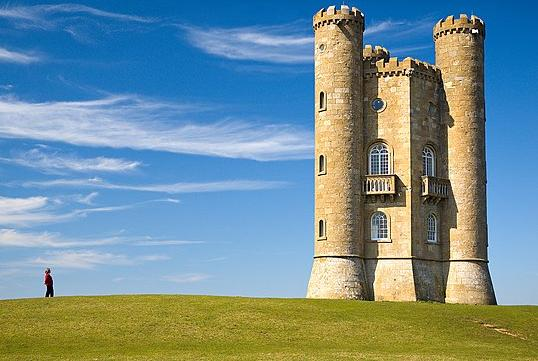
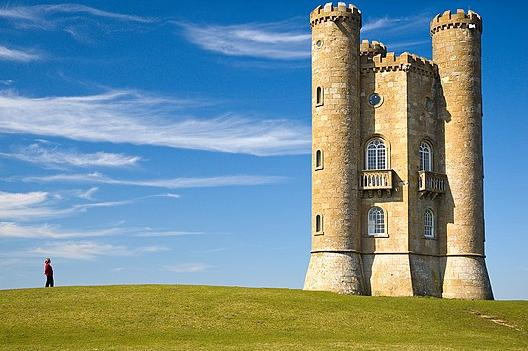
implemented the jframe

diff --git a/src/main/java/ImageFrame.java b/src/main/java/ImageFrame.java
@@ -1,0 +1,105 @@
+import javax.imageio.ImageIO;
+import javax.swing.*;
+import java.awt.*;
+import java.awt.image.BufferedImage;
+import java.io.File;
+import java.io.IOException;
+
+public class ImageFrame extends JFrame {
+
+    private final JLabel imageLabel;
+    private ImageObject imageObject;
+    private File currentFile;
+
+    public ImageFrame() {
+
+        setLayout(new BorderLayout());
+
+        // This is where the image will be stored.
+        imageLabel = new JLabel();
+
+        JPanel northPanel = new JPanel();
+        northPanel.setLayout(new FlowLayout());
+        JButton resizeButton = new JButton("Resize");
+        resizeButton.addActionListener(event -> {
+            // This will set the image based on the current size of the label
+            setSeamImageSize(imageLabel.getWidth(), imageLabel.getHeight());
+        });
+        northPanel.add(resizeButton);
+        JButton loadButton = new JButton("Load");
+        northPanel.add(loadButton);
+        loadButton.addActionListener(event -> {
+            chooseFile();
+        });
+        JButton resetButton = new JButton("Reset");
+        northPanel.add(resetButton);
+        resetButton.addActionListener(event -> {
+            try {
+                resetImage();
+            } catch (IOException e) {
+                throw new RuntimeException(e);
+            }
+        });
+
+        add(northPanel, BorderLayout.NORTH);
+        add(imageLabel, BorderLayout.CENTER);
+
+        BufferedImage image;
+        try {
+            image = ImageIO.read(ImageFrame.class.getResourceAsStream("Broadway_tower_edit.jpg"));
+            loadSeamImage(image);
+        } catch (IOException e) {
+            throw new RuntimeException(e);
+        }
+
+        setTitle("Seam Carving");
+        setDefaultCloseOperation(EXIT_ON_CLOSE);
+    }
+    private  void resetImage() throws IOException {
+        loadSeamImage(ImageIO.read(currentFile));
+    }
+
+    private void chooseFile() {
+        JFileChooser fileChooser = new JFileChooser();
+        int result = fileChooser.showOpenDialog(this);
+
+        if (result == JFileChooser.APPROVE_OPTION)
+        {
+            currentFile = new File(fileChooser.getSelectedFile().getAbsolutePath());
+            try {
+                loadSeamImage(ImageIO.read(currentFile));
+            } catch (IOException e) {
+                throw new RuntimeException(e);
+            }
+        }
+    }
+
+    public void loadSeamImage(BufferedImage image) {
+
+        // add code here to load the image into your seam carver code
+
+
+        setSize(image.getWidth(null), image.getHeight(null));
+        pack();
+        imageObject = new ImageObject(image);
+        imageLabel.setIcon(new ImageIcon(imageObject.getImage()));
+    }
+
+    private void setSeamImageSize(int width, int height) {
+        // generate a newImage with the new width and height
+        for (int i = 0; i < imageObject.getWidth() - width; i ++){
+            imageObject.removeSmallestVerticalSeam();
+        }
+        for(int i = 0; i < imageObject.getHeight() - height; i ++){
+            imageObject.removeSmallestHorizontalSeam();
+        }
+        imageObject.resetImage();
+
+        imageLabel.setIcon(new ImageIcon(imageObject.getImage()));
+    }
+
+    public static void main(String[] args) {
+        new ImageFrame().setVisible(true);
+    }
+
+}

diff --git a/src/main/java/ImageObject.java b/src/main/java/ImageObject.java
@@ -1,8 +1,6 @@
 
-import javax.imageio.ImageIO;
 import java.awt.*;
 import java.awt.image.BufferedImage;
-import java.io.*;
 
 import static javax.imageio.ImageIO.read;
 
@@ -19,20 +17,16 @@ public class ImageObject {
     private int width;
 
 
-    public ImageObject(File imageFile) {
-        try {
+    public ImageObject(BufferedImage imageFile) {
 
-            image = ImageIO.read(imageFile);
-            width = image.getWidth();
-            height = image.getHeight();
-            generatePixelArray();
+        image = imageFile;
+        width = image.getWidth();
+        height = image.getHeight();
+        generatePixelArray();
 
-            energyGrid = new EnergyGrid(pixelGrid);
+        energyGrid = new EnergyGrid(pixelGrid);
 
 
-        } catch (IOException e) {
-            e.printStackTrace();
-        }
     }
 
     private void generatePixelArray() {
@@ -45,9 +39,6 @@ public class ImageObject {
         }
     }
 
-//    public static void main(String[] args) {
-//        ImageObject m = new ImageObject();
-//    }
 
 
     public EnergyGrid getEnergyGrid() {
@@ -68,7 +59,6 @@ public class ImageObject {
         this.pixelGrid = pixelGrid;
     }
     public void removeSmallestVerticalSeam(){
-//        VerticalSeamCreator creator = new VerticalSeamCreator(this);
         seamRemover.removeSmallestVerticalSeam(this);
     }
     public void removeSmallestHorizontalSeam(){
@@ -84,16 +74,17 @@ public class ImageObject {
     public void setEnergyGrid(EnergyGrid energyGrid){
         this.energyGrid = energyGrid;
     }
-    public void resetImageToCurrentPixelGrid(){
-        //take current pixel grid and create image out of it, set the BufferedImage (this.image) to be the new image of this class
+    public void resetImage(){
+        BufferedImage newPic = new BufferedImage(width, height, BufferedImage.TYPE_INT_RGB);
+        for (int i = 0; i < height; i++) {
+            for (int j = 0; j < width; j++) {
+                newPic.setRGB(j, i, pixelGrid[i][j].getRGB());
+            }
+        }
+        image = newPic;
     }
+    public BufferedImage getImage(){
+        return image;
+    }
+
 }
-
-//write tests for everything
-// put everything into little classes
-//1. Read image into buffered image (either color[][] or int[][])
-//2. calculate double[][] energy
-//3. find the lowest energy vertical seam (or horizontal)
-//4. remove seam
-//5. Go to step 2 (until hit the number of seams you want to remove vertically and then also horizontal)
-

diff --git a/src/main/java/VerticalSeamCreator.java b/src/main/java/VerticalSeamCreator.java
@@ -109,18 +109,18 @@ public class VerticalSeamCreator {
 
     }
 
-    public static void main(String[] args) {
-        File imageFile = new File(ImageObject.class.getResource("Broadway_tower_edit.jpg").getPath());
-        ImageObject o = new ImageObject(imageFile);
-        VerticalSeamCreator s = new VerticalSeamCreator(o);
-        SeamRemover r = new SeamRemover();
+    public static void main(String[] args) throws IOException {
+//        File imageFile = new File(ImageObject.class.getResource("Broadway_tower_edit.jpg").getPath());
+        BufferedImage image = ImageIO.read(ImageFrame.class.getResourceAsStream("Broadway_tower_edit.jpg"));
+        ImageObject o = new ImageObject(image);
+
 
 //        System.out.println(Arrays.toString(s.points));
 //        System.out.println(Arrays.deepToString(s.positions));
 //        System.out.println(Arrays.toString(s.smallestSeam));
 //        System.out.println(Arrays.deepToString(o.getEnergyGrid().getEnergyGrid()));
 //        System.out.println(o.getPixelGrid()[0].length);
-        for (int i = 0; i < 10; i ++){
+        for (int i = 0; i < 20; i ++){
             o.removeSmallestVerticalSeam();
             o.removeSmallestHorizontalSeam();
         }
